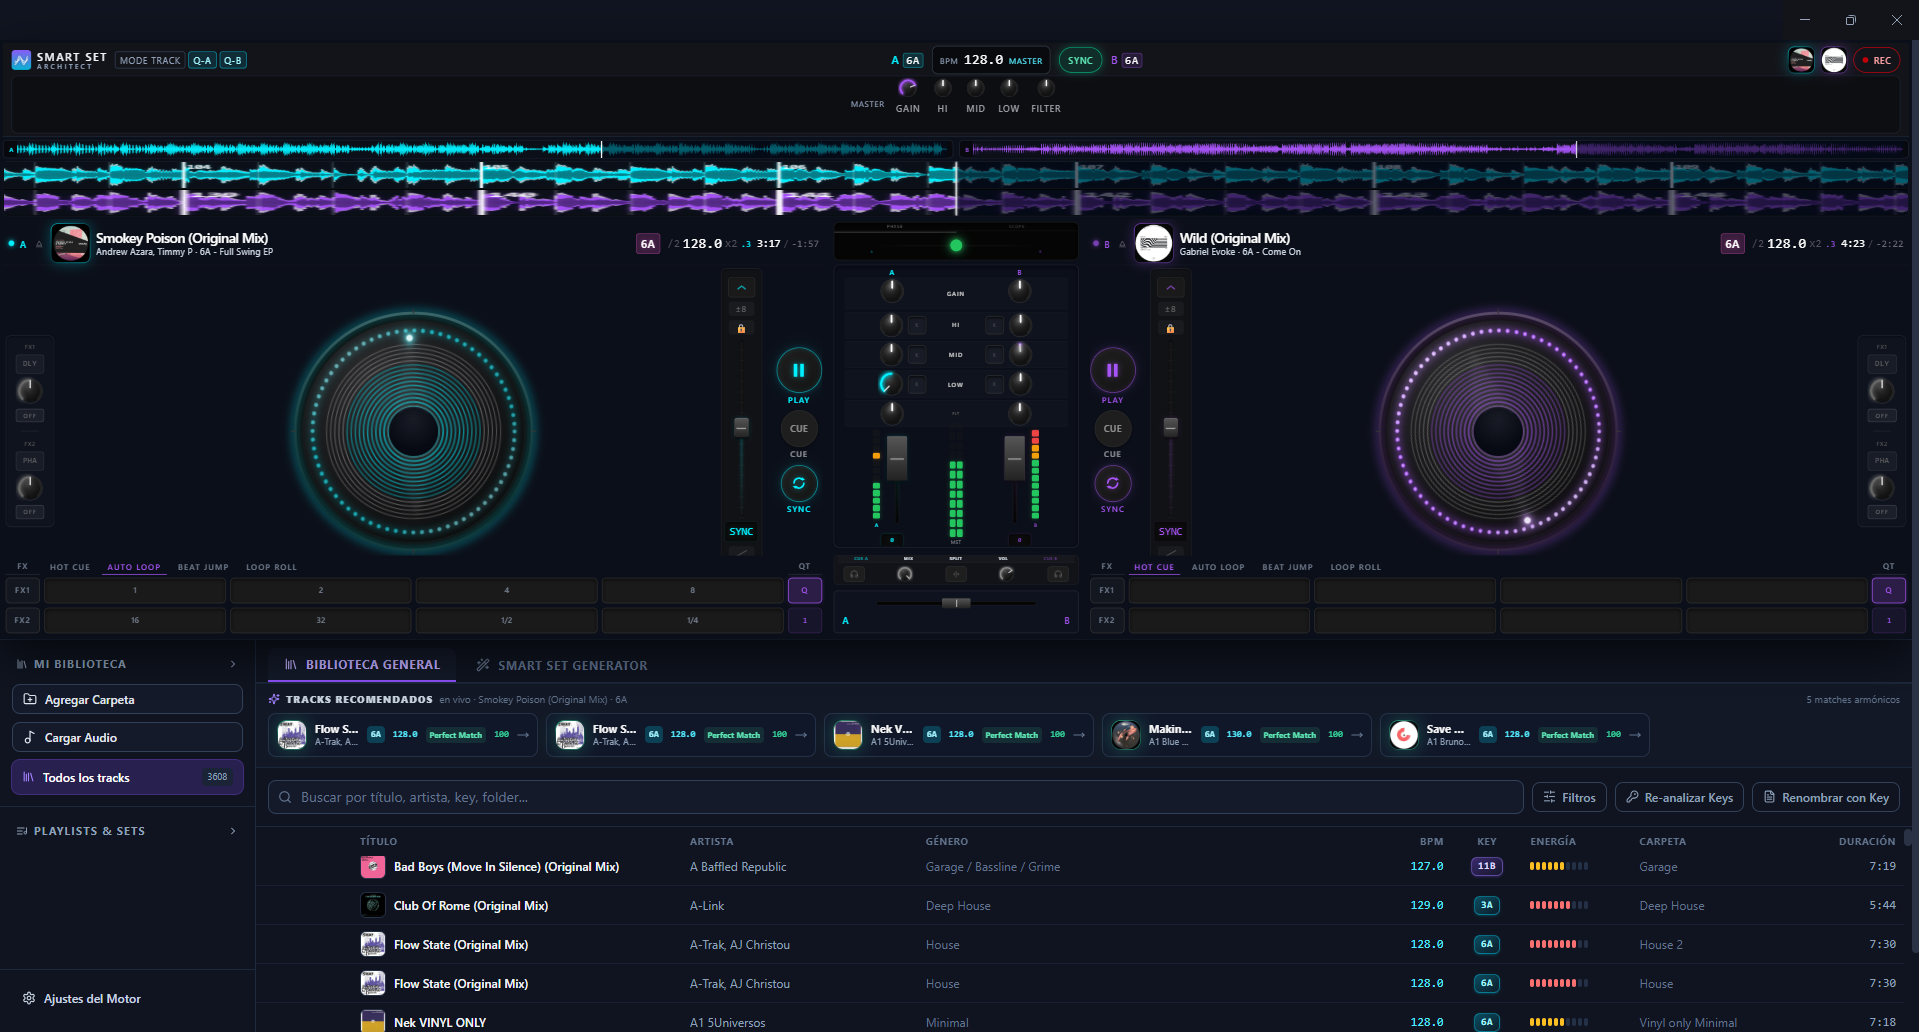
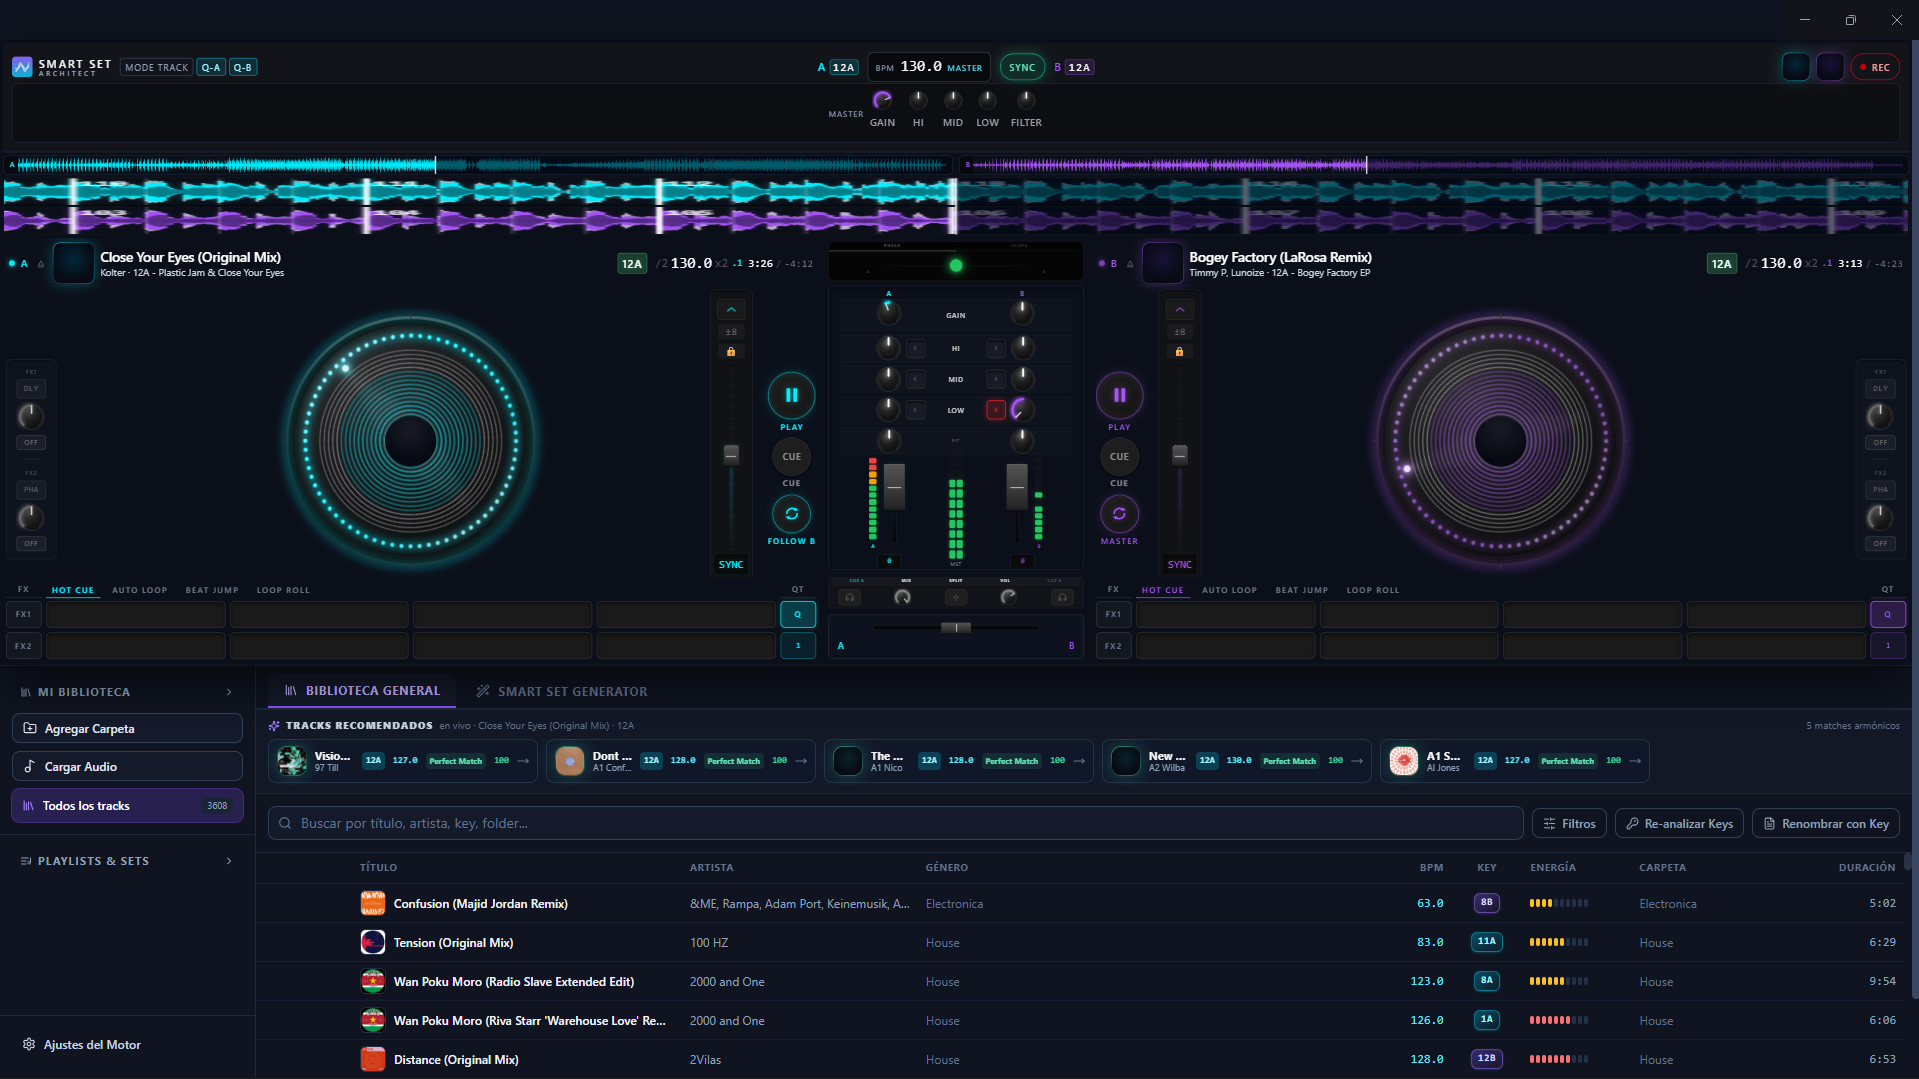
Update screenshots, Mac button label and hero copy

diff --git a/src/components/Hero.tsx b/src/components/Hero.tsx
@@ -47,7 +47,7 @@ const metrics: Array<{ icon: LucideIcon; label: string }> = [
 const preview = {
   src: "/smart-set-a.png",
   width: 1919,
-  height: 1032,
+  height: 1079,
   alt: "Vista previa de la Biblioteca General de Smart Set Architect",
 };
 
@@ -111,7 +111,7 @@ export default function Hero() {
             className="mt-6 max-w-3xl text-lg leading-relaxed text-soft text-balance sm:text-xl"
           >
             Motor Pro Audio con Hard Phase Lock a 0 ms, sincronización 1:1 de
-            precisión, Auto Loops cuantizados a la grilla y maquetado
+            precisión, Auto Loops cuantizados a la rejilla rítmica y maquetado
             inteligente de sets.
           </motion.p>
 
@@ -134,7 +134,7 @@ export default function Hero() {
               innerClassName="btn-shine gap-2.5 border border-white/15 bg-white/5 px-7 py-3.5 text-[15px] font-medium text-white/85 backdrop-blur transition-all duration-300 hover:border-white/30 hover:bg-white/10 hover:text-white"
             >
               <Apple className="size-4.5 text-white/70 transition-transform duration-300 group-hover:translate-y-0.5" />
-              Descargar para macOS (.dmg)
+              Descargar para macOS (.zip)
             </GlowButton>
             <a
               href="https://smart-set-studio-e6cf.vercel.app"

diff --git a/src/components/download/DownloadSection.tsx b/src/components/download/DownloadSection.tsx
@@ -152,7 +152,7 @@ export default function DownloadSection({ id }: DownloadSectionProps) {
                   innerClassName="btn-shine gap-2.5 border border-white/15 bg-white/[0.04] px-7 py-3.5 text-[15px] font-semibold text-white backdrop-blur transition-all duration-300 hover:border-cyan-300/40 hover:bg-white/10"
                 >
                   <Apple className="size-4.5 transition-transform duration-300 group-hover:translate-y-0.5" />
-                  Descargar para macOS (.dmg)
+                  Descargar para macOS (.zip)
                 </GlowButton>
                 <a
                   href="#download"

diff --git a/src/components/Header.tsx b/src/components/Header.tsx
@@ -15,7 +15,7 @@ const navLinks = [
 
 const downloadOptions = [
   { label: "Descargar para Windows (.exe)", icon: MonitorDown, href: WINDOWS_URL },
-  { label: "Descargar para macOS (.dmg)", icon: Apple, href: MACOS_URL },
+  { label: "Descargar para macOS (.zip)", icon: Apple, href: MACOS_URL },
 ];
 
 export default function Header() {

diff --git a/src/components/showcase/Showcase.tsx b/src/components/showcase/Showcase.tsx
@@ -46,8 +46,8 @@ const details: Array<{
 
 const screenshot = {
   src: "/smart-set-b.png",
-  width: 1916,
-  height: 1024,
+  width: 1919,
+  height: 1079,
   alt: "Análisis de biblioteca, ondas e interfaz de decks de Smart Set Architect",
 };
 
